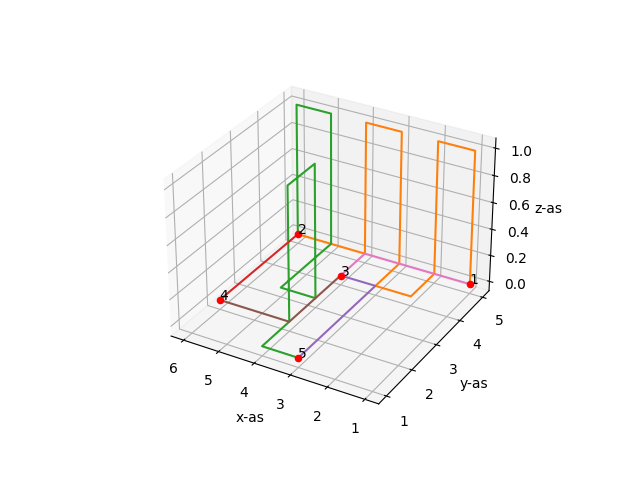
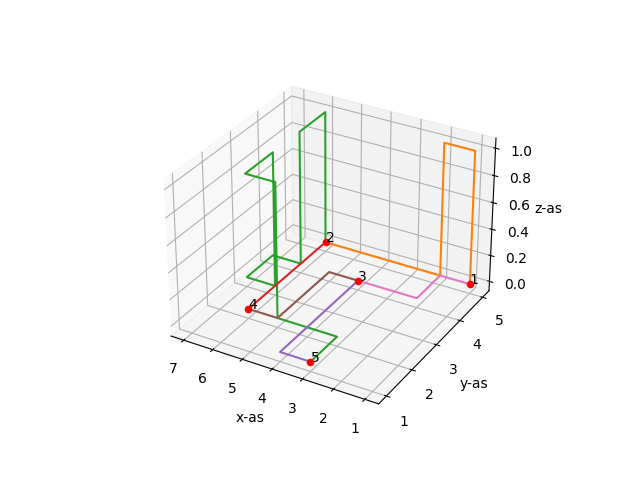
Git makes me commit again

diff --git a/code/algorithms/steered_random.py b/code/algorithms/steered_random.py
@@ -1,5 +1,5 @@
 from copy import deepcopy
-from random import choice
+from random import choice, shuffle
 
 class steered_random_routes:
     """
@@ -28,6 +28,30 @@ class steered_random_routes:
         
         return [i[1] for i in nets_with_length]
 
+    def check_direction(self, net, direction):
+        """
+        Takes a net object and a direction as input
+        Checks if that diretion doesn't result in a definitive dead end
+        Also checks if that direction isn't a gate, unless it's the end of the net
+        Returns true if that direction is a good option, else false
+        """
+
+        # start from the last added crossing in the list
+        crossing = net.routelist[-1]
+
+        to_be_added_crossing = self.grid.crossing_at_direction(direction, crossing)
+        
+        # if the crossing is a dead-end, don't go there
+        if to_be_added_crossing.directions == []:
+            return False
+
+        # if the crossing is a gate, only allow it if it's the endgate of the net
+        if to_be_added_crossing.is_gate:
+            if to_be_added_crossing != net.end:
+                return False
+
+        return True
+
     def run(self, tries):
         """
         Algorithm that takes in a grid object as input
@@ -46,8 +70,13 @@ class steered_random_routes:
             # solve puzzle net by net
             for net in ordered_nets:
 
+                # variable to keep track if net failed or succeeded
+                succes = True
+                optimal_choices = True
+
                 # select this net as current net in the grid
                 self.grid.choose_net(net)
+                print(f"starting on {net}")
 
                 # run until net is finished
                 while not net.finished:
@@ -59,26 +88,59 @@ class steered_random_routes:
                         print(f"{net} failed")
                         print(net.show_route_coordinates())
                         self.grid.delete_net(net, -1)
+                        succes = False
                         break
                 
                     # make a list of overlap between possible directions and directions in the right direction
-                    optimal_options = [direction for direction in directions_to_end if direction in self.grid.get_directions()]
+                    optimal_options = [direction for direction in directions_to_end if direction in possible_directions]
 
                     # if going in the right direction is not possible, prioritize going up, else pick random possible direction
-                    if not optimal_options:
-                        if 'U' in possible_directions:
+                    if not optimal_options or optimal_choices == False:
+                        if 'U' in possible_directions and self.check_direction(net, 'U'):
+                            optimal_choices = True
                             self.grid.add_to_net('U')
+
                         else:
-                            self.grid.add_to_net(choice(possible_directions))
+                            shuffle(possible_directions)
+                            found_direction = False
+
+                            # check all non-optimal directions, if one isn't a dead end, add to net
+                            for direction in possible_directions:
+                                if self.check_direction(net, direction) and found_direction == False:
+                                    found_direction = True
+                                    optimal_choices = True
+                                    self.grid.add_to_net(direction)
+                            
+                            # if none of the directions are possible, register net as failure
+                            if found_direction == False:
+                                print(f"{net} failed")
+                                self.grid.delete_net(net, -1)
+                                succes = False
+                                break
 
                     # prioritize staying as low as possible in the grid
-                    elif 'D' not in optimal_options:
-                        self.grid.add_to_net(choice(optimal_options))
-                    else:
+                    elif 'D' in optimal_options and self.check_direction(net, 'D'):
+                        optimal_choices = True
                         self.grid.add_to_net('D')
-            
-                self.total_wires_length += net.get_length()
-                succeeded_nets.append(net)
+
+                    # if there is overlap between the right direction and the possible directions, pick a random direction out of that list
+                    else:
+                        shuffle(optimal_options)
+                        direction_added = False
+                        for direction in optimal_options:
+                            if self.check_direction(net, direction) and direction_added == False:
+                                direction_added = True
+                                optimal_choices = True
+                                self.grid.add_to_net(direction)
+                        
+                        # if there were optimal choices, but none were a not-deadend, make sure it doesn't endlessly loop
+                        if not direction_added:
+                            optimal_choices = False
+                        
+                # if the net is finished, save the length and exclude from running again
+                if succes != False:
+                    self.total_wires_length += net.get_length()
+                    succeeded_nets.append(net)
 
             ordered_nets = [i for i in ordered_nets if i not in succeeded_nets]
             tries -= 1

diff --git a/main.py b/main.py
@@ -5,7 +5,7 @@ from code.algorithms import random, steered_random
 if __name__ == "__main__":
     
     chip_number = 0
-    netlist_number = 1
+    netlist_number = 2
 
     printfile = f"./data/chip_{chip_number}/print_{chip_number}.csv"
     netlistfile = f"./data/chip_{chip_number}/netlist_{netlist_number}.csv"
@@ -19,6 +19,6 @@ if __name__ == "__main__":
 
     # Testing steered random algorithm
     steered_random_object = steered_random.steered_random_routes(grid)
-    steered_random_object.run(10)
+    steered_random_object.run(3)
 
     vis.visualise(printfile, outputfile)

diff --git a/PROCESS.md b/PROCESS.md
@@ -26,8 +26,8 @@
 | Jade | 00:00 | 04:00 | Worked on A* algorithm.|
 | Matthijs | 07:00 | 15:00 | First I dived into the new datastructure and tried to get a grasp of how it works in detail, together with the random algorithm. I then found out that the algorithm was not working properly and debugged it for a few hours. In the two hours before the lecture, I worked on the baseline document together with Birgit. |
 | Birgit | 13:00 | 15:00 | Added a feature to the visualisation, worked in the baseline document. |
-| Birgit | 20:00 | 23:30 | Searching for bugs, wasn't able to entirely fix intersection count for finished outputs, updated notes on the datastructure. Changed random algoritm so if it fails to lay down a net, it removes it and tries again later. Removed methods from datastructure we didn't use. |
 | Jade | 13:00 | 15:00 | Worked on A* algorithm. |
+| Birgit | 20:00 | 23:30 | Searching for bugs, wasn't able to entirely fix intersection count for finished outputs, updated notes on the datastructure. Changed random algoritm so if it fails to lay down a net, it removes it and tries again later. Removed methods from datastructure we didn't use. |
 | Jade | 22:00 | 23:59 | Worked on A* algorithm. |
 
 ## 14-01-2021
@@ -38,3 +38,8 @@
 | Jade | 13:00 | 16:00 | Worked on A* algorithm.|
 | Birgit | 13:45 | 17:00 | Fixing minor errors in the reading of datafiles in the grid object and the visualisation function. Perfecting new algorithm to work on bigger chips and more difficult netlists. |
 | Jade | 23:00 | 23:59 | Worked on A* algorithm.|
+
+## 15-01-2021
+| Name | Start-time | End-time | Description |
+| --- | --- | --- | --- |
+| Birgit | 10:00 | | Working on a way to look one step ahead in the steered random algoritm. Trying to write a better way to decide if it'll go up or down. |
